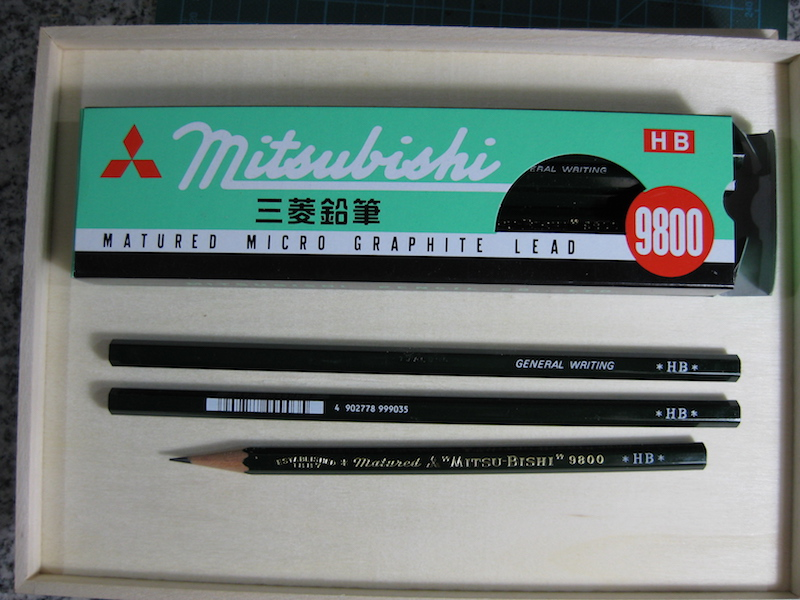
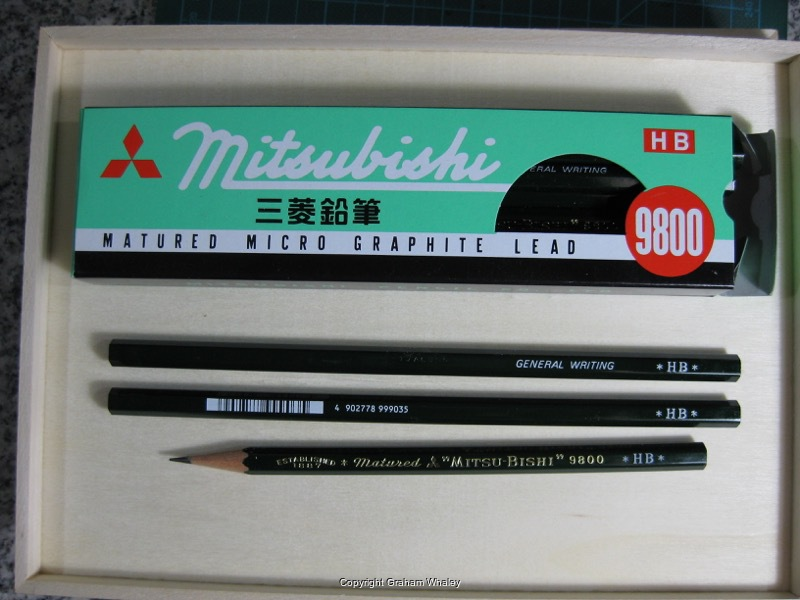
Tombow 8900 B
Add this weeks Tombow
Add and update some of the helper scripts.

And use those scripts to modify the EXIF data and inject some copyright text.

diff --git a/_posts/2018-03-03-tombow-8900.md b/_posts/2018-03-03-tombow-8900.md
@@ -1,0 +1,43 @@
+---
+title:  "Tombow 8900 B"
+description: Tombow 8900
+date:   2018-03-03 18:27:38 +0000
+categories: tombow japan B
+---
+
+# The Tombow 8900 B
+
+Another Japanese reasonable quality pencil. This one is grade 'B' - not my
+normal choice, gut it is what turned up - I think I didn't realise I was ordering
+a 'B' grade, and would normally have gone for an 'HB'.
+
+## The company
+
+[Tombow](https://www.tombow.com/en/company/index.html) are a Japanese pencil (well, stationary) company formed in 1913.
+Tombow are prett well known in the pencil world, particularly for their Mono 100 - we'll get to review one of those at
+some point, but not this week.
+
+## The pencil itself
+The 8900 is apparently Japans best selling pencil (according to the Tombow web site). It a nice straight forward
+cedar pencil. Decent paint finish, no eraser (I'm not a huge fan of eraser capped pencils, I do prefer them without them).
+
+I like the medium green paint. The pencil to me feels fairly light in the hand, but not too light - it still feels like a
+quality pencil.
+
+![Mitsubishi 9800]({{site.url}}/images/mitsubishi_9800_small.JPG)
+
+Let's fling up some other reviews:
+
+[leadfast](https://www.leadfast.org/blog/2017/9/18/tombow-8900-pencil-review)
+[penpaperpencil](https://penpaperpencil.net/tombow-8900-pencil-review/)
+
+## How does it write
+Well, it is pretty smooth and has a nice dark line - but, that could be because this is a 'B' grade. It didn't wear noticly
+much worse than an HB, but it was definitely no better. If anything, sure, it wears down a little faster than the Mitsubishi
+9800.
+
+## Sourcing
+
+Again, maybe not something you are going to find in your local store, but they are sourceable via the internet. Mine came by import
+by way of Amazon.
+
